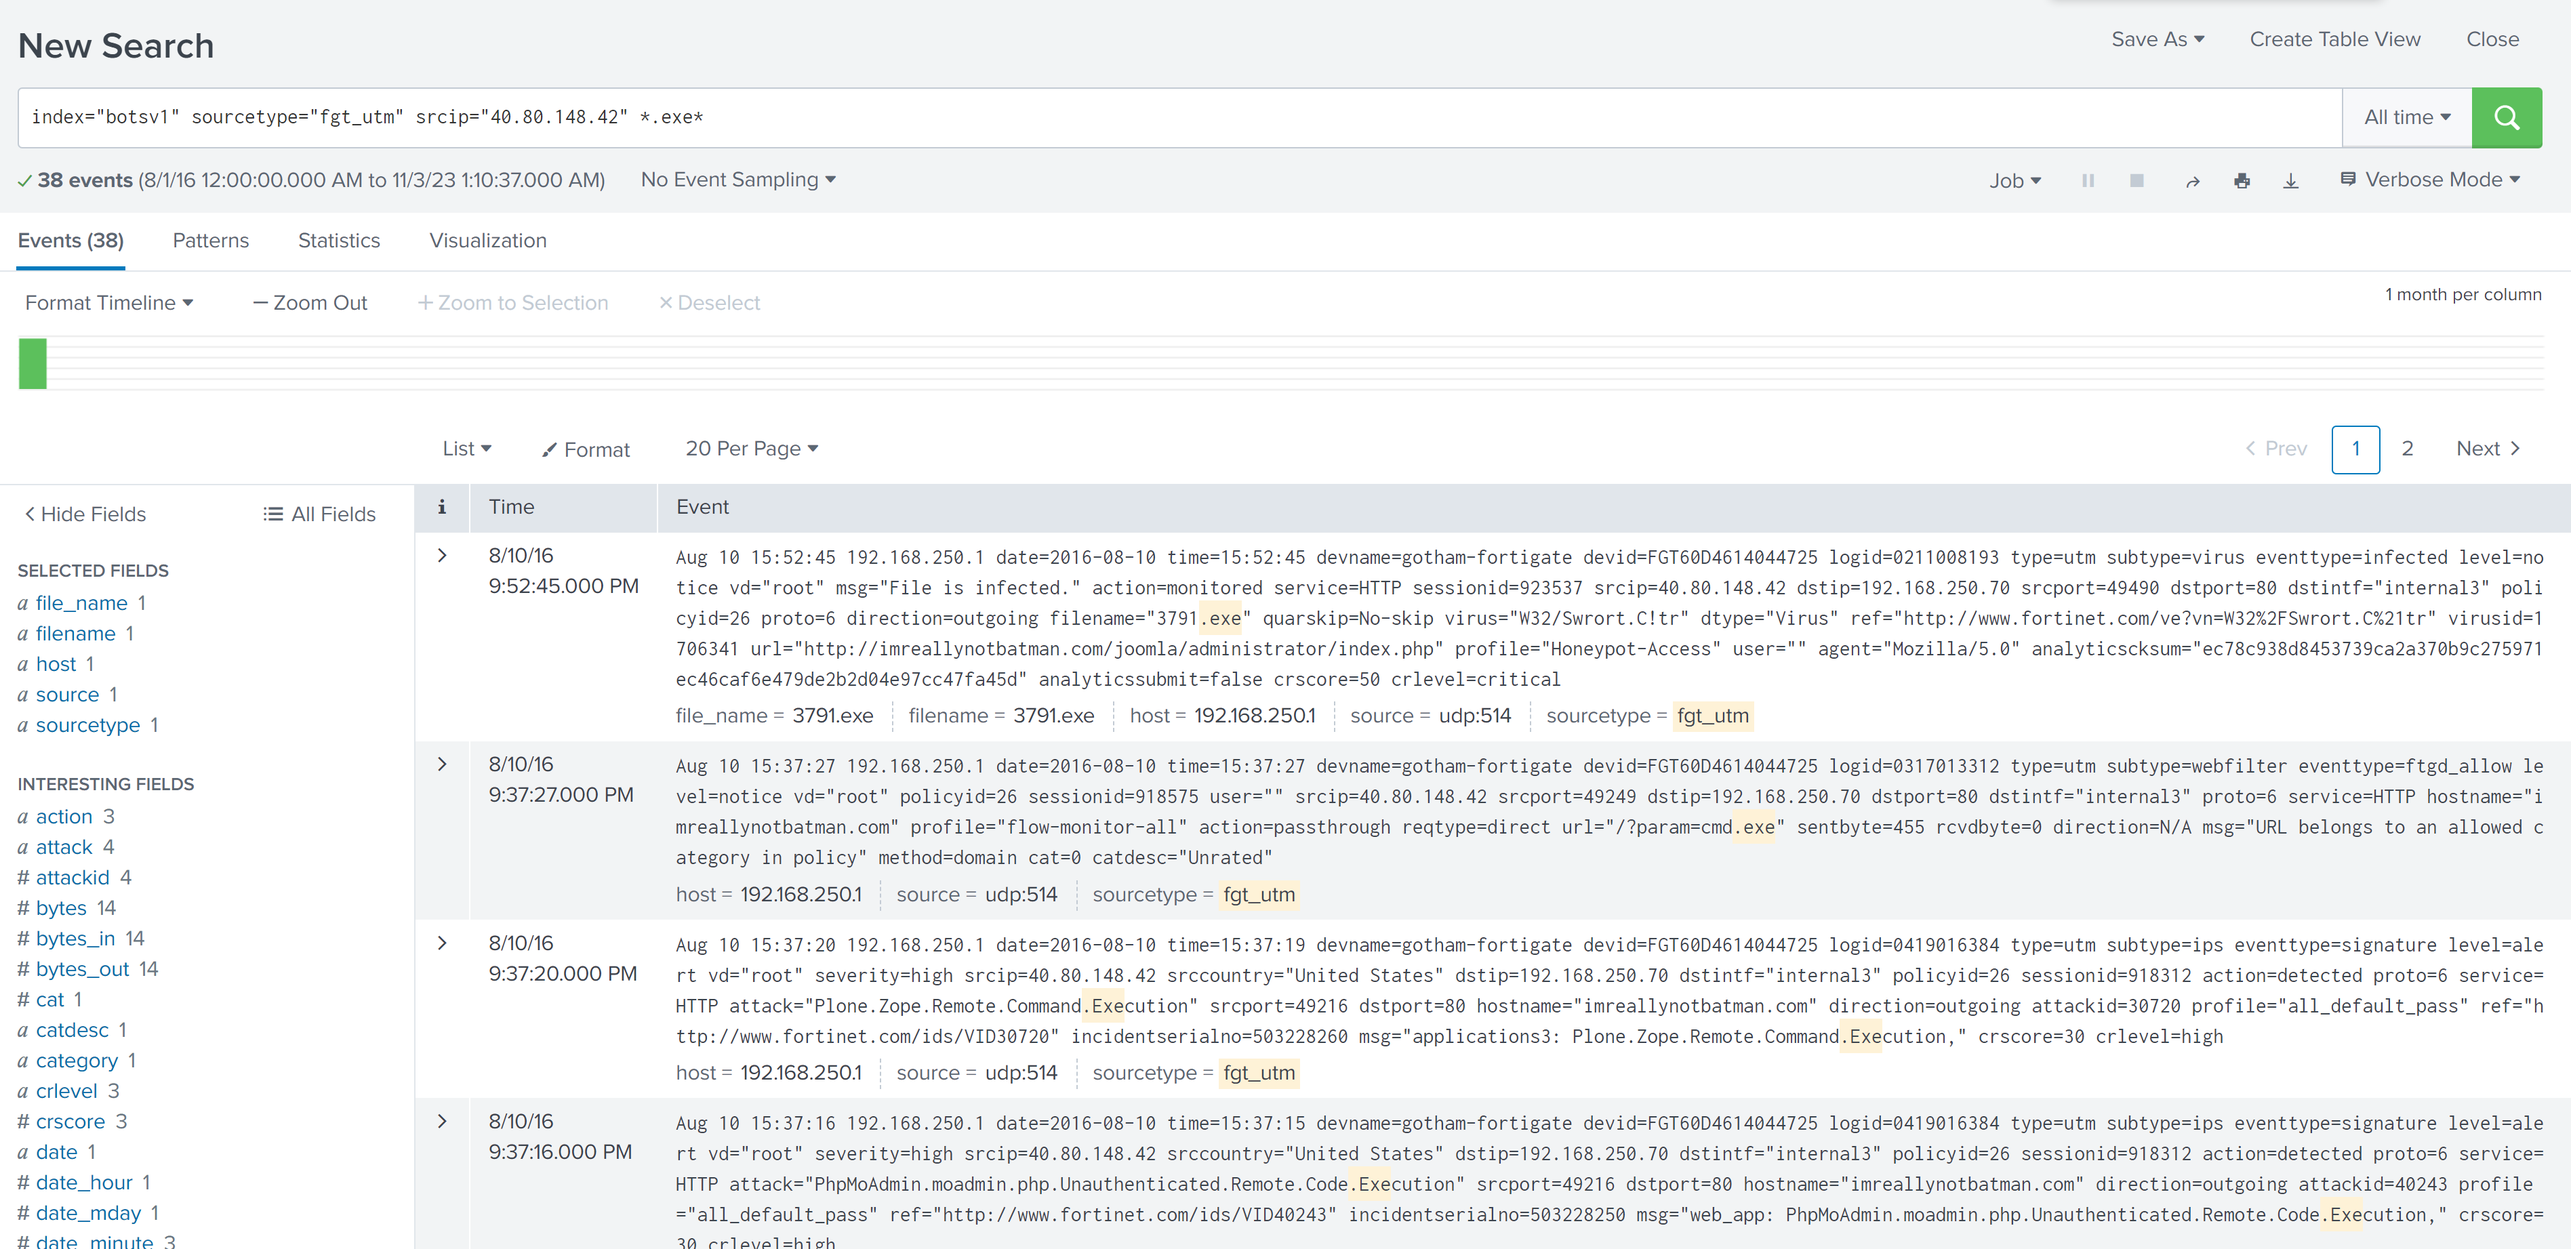
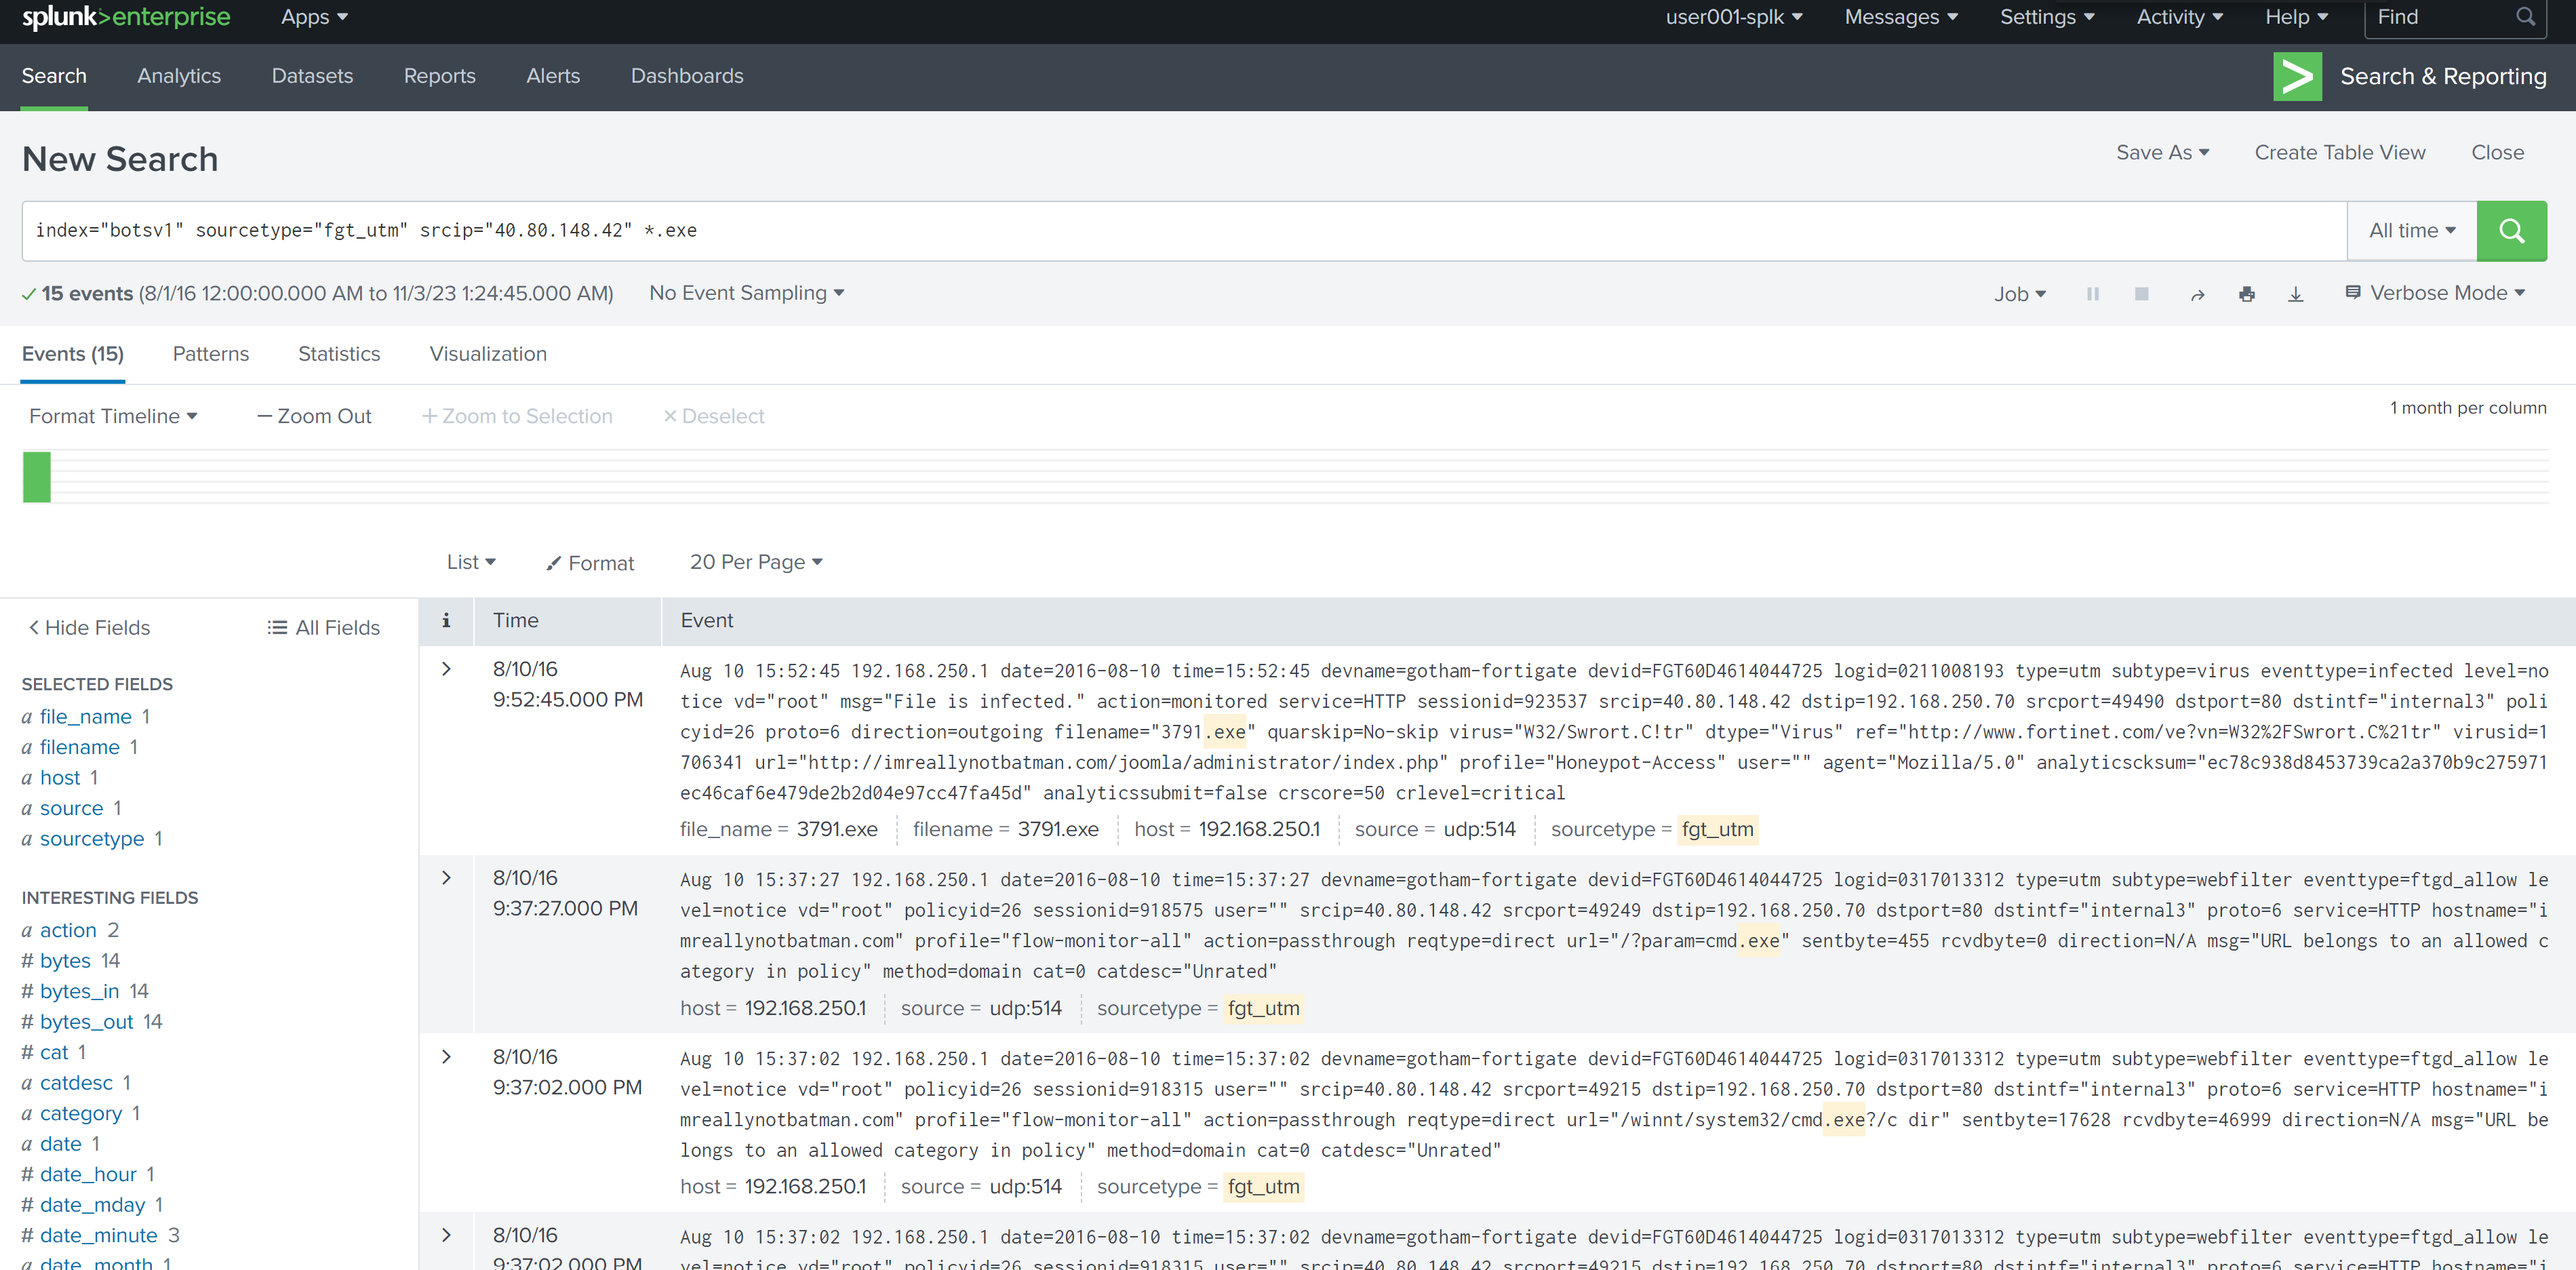
Update

diff --git a/botsv1-recap.md b/botsv1-recap.md
@@ -100,10 +100,10 @@ After sifting through some pages, we'll come across some interesting values that
 
 ## Q8: What is the name of the executable uploaded by Po1s0n1vy?
 
-For this question, we'll need to change our sourcetype to `fgt_utm`. We know that the threat actor's IP address is `40.80.148.42` and we are looking for some sort of executable file. Based on what we know, we can build the below SPL query and include a wildcard for .exe (a common executable file extension).
+For this question, we'll need to change our sourcetype to `fgt_utm`. We know that the threat actor's IP address is `40.80.148.42` and we are looking for some sort of executable file. Based on what we know, we can build the below SPL query and include a wildcard * for .exe (a common executable file extension).
 
 ```
-index="botsv1" sourcetype="fgt_utm" srcip="40.80.148.42" *.exe*
+index="botsv1" sourcetype="fgt_utm" srcip="40.80.148.42" *.exe
 ```
 
 Our results will show us that there is a field named `filename` with the value `3791.exe` that is associated with the source IP address that belongs to the threat actor. Clicking on the `filename` field to expand it shows that `3739.exe` is the only executable file, so this is likely the file that was uploaded by the theat actor.
